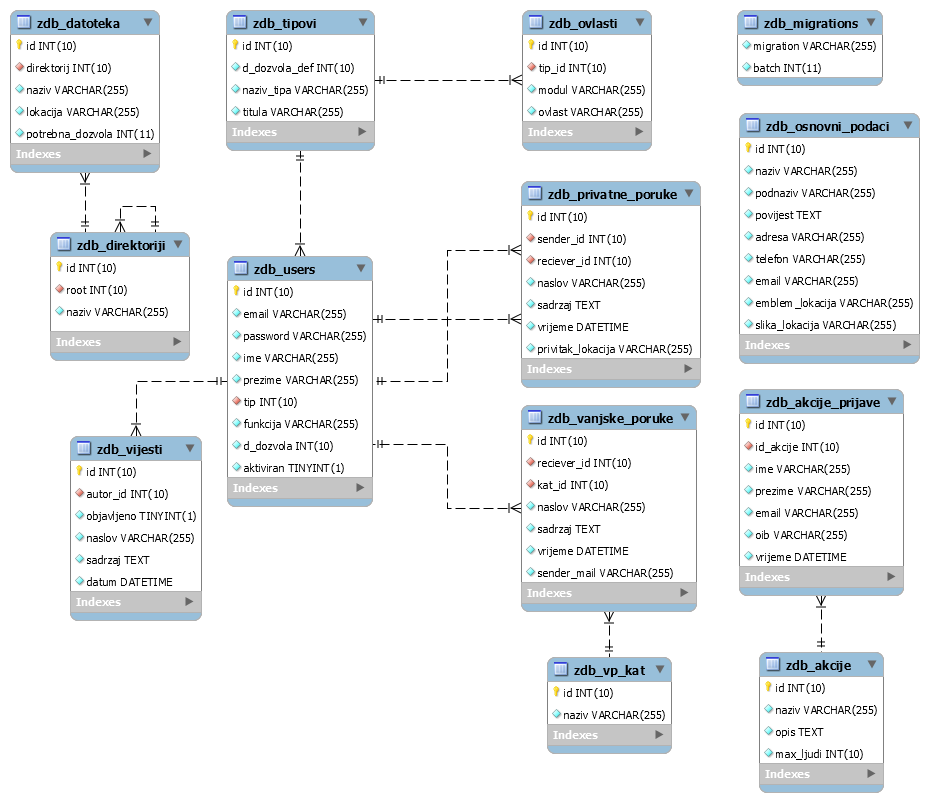
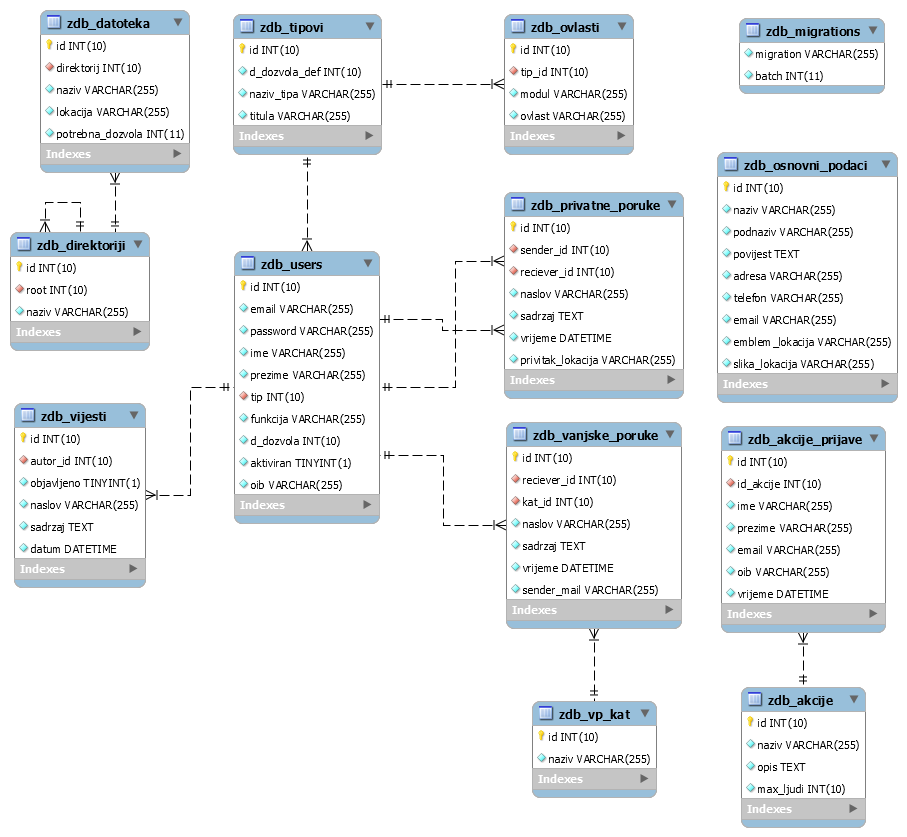
Skraćeni dijagrami klasa, sad su 2; novi dijagram baze, dodan oib

diff --git a/src/app/database/migrations/2014_11_07_185452_create_users_table.php b/src/app/database/migrations/2014_11_07_185452_create_users_table.php
@@ -22,6 +22,7 @@ class CreateUsersTable extends Migration {
 			$table->string('funkcija');
 			$table->integer('d_dozvola')->unsigned();
 			$table->boolean('aktiviran');
+			$table->string('oib')->unique();
 		});
 	}
 
